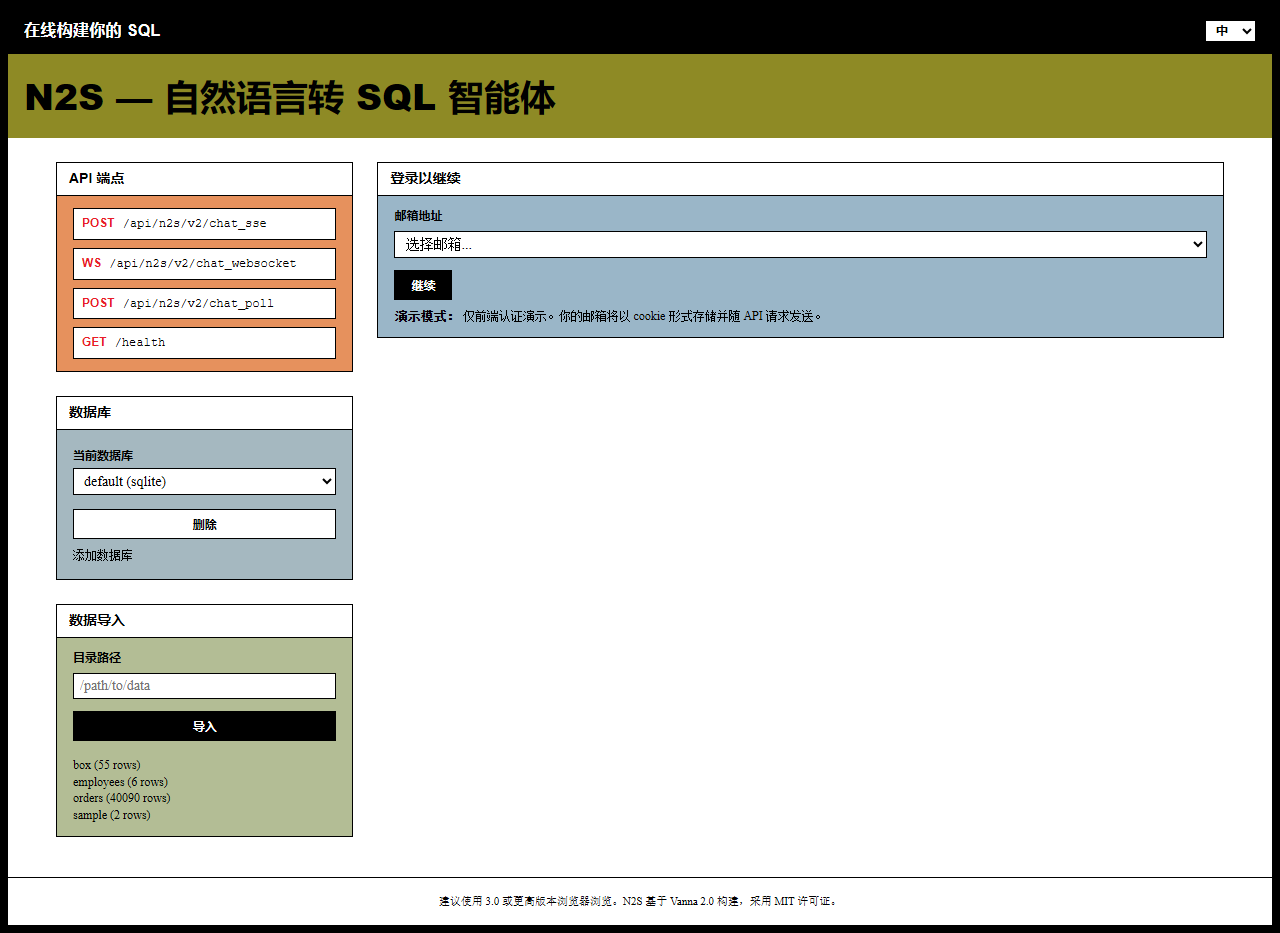
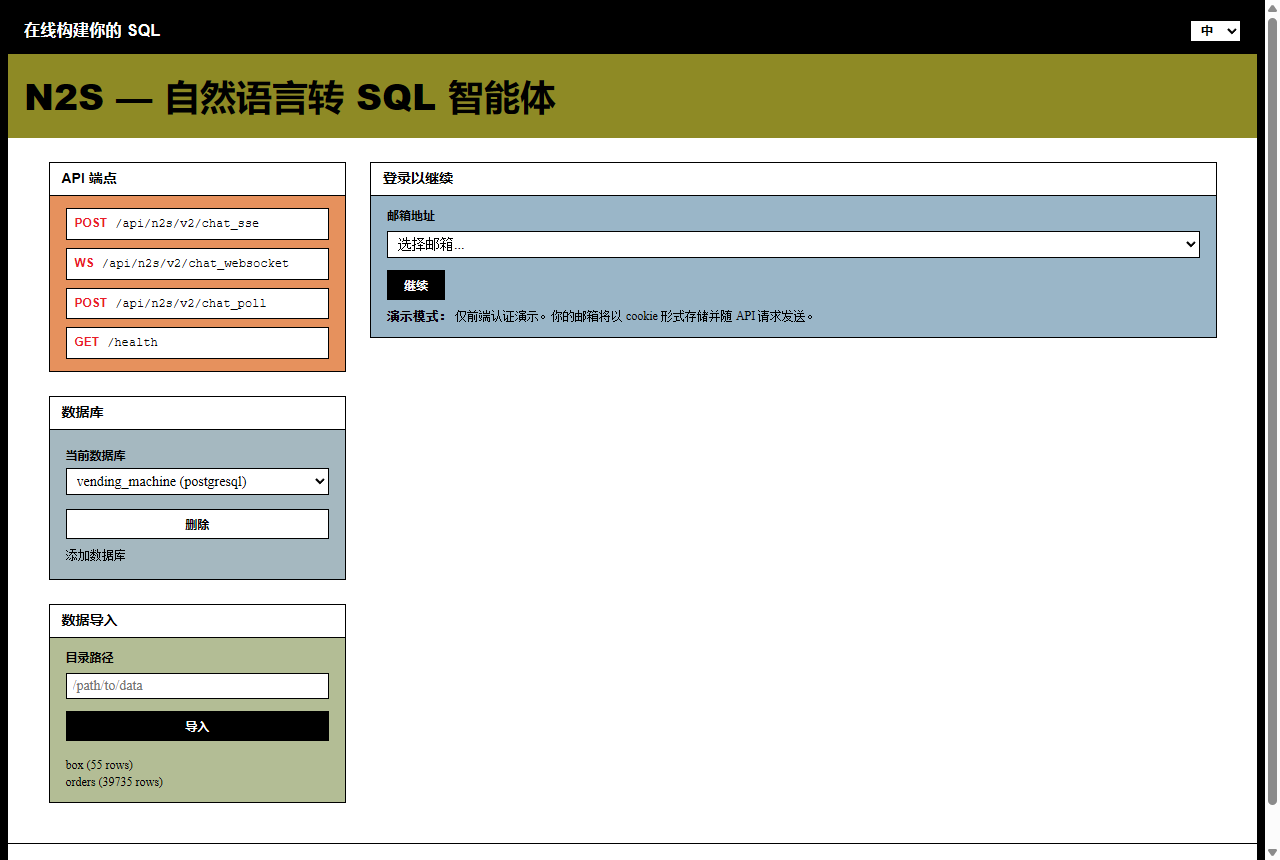
docs: rewrite README (EN/CN) with real screenshots, fix provider/db status tables
- Replace prototype/mockup screenshots with real captures: login page and a
  chat session showing question + result table + bar chart visualisation
- Drop duplicated n2s-chat-response.png (identical file, md5 match)
- README: concise quick start (frontend pre-built, no Node needed), provider
  and database tables with verified/untested status, mock mode clarified
  (canned questions against the bundled employees demo DB, not real NL2SQL)
- Restore architecture / agent-workflow / ingestion diagrams and project tree

Changed region(s): [[0.0, 0.0, 1.0, 1.0]]

diff --git a/README.md b/README.md
@@ -4,88 +4,48 @@
 
 **Turn natural language into SQL, execute it, and visualise results.**
 
-[![Python](https://img.shields.io/badge/Python-3.9+-3776AB?logo=python&logoColor=white)](https://python.org)
+[![Python 3.9+](https://img.shields.io/badge/Python-3.9+-3776AB?logo=python&logoColor=white)](https://python.org)
 [![License](https://img.shields.io/badge/License-MIT-green?logo=opensourceinitiative&logoColor=white)](./LICENSE)
-[![FastAPI](https://img.shields.io/badge/FastAPI-0.68+-009688?logo=fastapi&logoColor=white)](https://fastapi.tiangolo.com)
-[![Code Style](https://img.shields.io/badge/Code%20Style-Ruff-261230?logo=ruff&logoColor=white)](https://docs.astral.sh/ruff/)
-[![PRs Welcome](https://img.shields.io/badge/PRs-Welcome-brightgreen?logo=github)](./CONTRIBUTING.md)
-[![Tests](https://img.shields.io/badge/Tests-184%20passed-success)](#testing)
+[![Tests](https://img.shields.io/badge/Tests-184%20passed-success)](#commands)
 
 [English](README.md) | [中文](README_CN.md)
 
 </div>
 
----
+N2S is a natural-language-to-SQL agent built on [Vanna](https://github.com/vanna-ai/vanna) 2.0. It inspects the database schema, generates SQL, executes it, and visualises the results — retrying automatically when SQL fails.
 
-N2S is an open-source **Natural Language to SQL to Insights** agent. Built on the [Vanna](https://github.com/vanna-ai/vanna) 2.0 agent framework, it extends the original with stronger tool-calling, multi-turn reasoning, a data ingestion pipeline, and a built-in Text2SQL benchmark.
-
-> N2S is a derivative project. It retains Vanna's MIT license and all original copyright notices. See [NOTICE](./NOTICE) for attribution.
+> Derivative project. Retains Vanna's MIT license and copyright notices, see [NOTICE](./NOTICE).
 
 ## Features
 
-- **Agent + Tool Calling** — The agent reasons over schema, generates SQL, executes it, and visualises results through an explicit tool loop.
-- **Self-Correction** — Failed SQL is captured and fed back to the LLM for automatic retry.
-- **Schema Introspection** — The agent inspects database schema before writing queries, reducing hallucination.
-- **Data Ingestion Pipeline** — Scan directories, read CSV/Excel/JSON/Parquet files, infer schema automatically, and load into the target database. Optional LLM-assisted schema enhancement with graceful degradation.
-- **Multi-Database Support** — SQLite, PostgreSQL, MySQL, DuckDB, ClickHouse, Oracle, BigQuery, Snowflake, MSSQL, Hive, Presto, and more via SQLAlchemy.
-- **Multi-LLM Providers** — Mock (no API key), OpenAI, Anthropic, Gemini, Ollama, and OpenAI-compatible endpoints (Agnes, Mimo).
-- **Built-in Benchmark** — `python -m n2s.eval` runs a reproducible Text2SQL evaluation and compares multiple LLM providers.
-- **One-Command Demo** — `python n2s_app.py` starts a FastAPI server with a web UI.
-
-## Screenshots
-
-### Login & Control Panel
-
-![Login Page](img/n2s-login.png)
-
-### Chat Interface
-
-![Chat Interface](img/n2s-chat.png)
+- **Tool-calling agent loop** — schema introspection → SQL generation → execution → visualisation; failed SQL is fed back to the LLM for retry
+- **Data ingestion pipeline** — scan a directory of CSV/Excel/JSON/Parquet files, auto-infer schema, load into the target database (LLM-assisted schema enhancement with graceful fallback)
+- **Multi-database** — SQLite, PostgreSQL, MySQL, DuckDB, ClickHouse, Oracle, BigQuery, Snowflake, MSSQL, Hive, Presto via SQLAlchemy
+- **Multi-LLM** — OpenAI, Anthropic, Gemini, Ollama, or any OpenAI-compatible endpoint (Agnes, Mimo); built-in `mock` for key-less demos
+- **Built-in Text2SQL benchmark** — reproducible evaluation across providers (`python -m n2s.eval`)
 
 ## Quick Start
 
-### 1. Install
+Requires Python 3.9+. The web UI bundle is committed to the repo — no Node.js needed.
 
 ```bash
-git clone https://github.com/YOUR_USERNAME/n2s.git
-cd n2s
+git clone https://github.com/wuxiangru915/N2S.git
+cd N2S
 pip install -e ".[fastapi]"
+python n2s_app.py    # open http://localhost:8000
 ```
 
-### 2. Run the mock demo (no API key required)
+The default `mock` provider answers canned questions against the bundled demo database (`employees`). For arbitrary questions, point `N2S_LLM_PROVIDER` at a real LLM:
 
 ```bash
-python n2s_app.py
-# Open http://localhost:8000
-```
-
-### 3. Run with a real LLM
-
-Supported providers: `mock` (default), `agnes`, `openai`, `anthropic`, `ollama`, `mimo`.
-
-```bash
-# OpenAI
-export N2S_LLM_PROVIDER=openai
-export OPENAI_API_KEY=sk-...
-python n2s_app.py
-
-# Anthropic
-export N2S_LLM_PROVIDER=anthropic
-export ANTHROPIC_API_KEY=sk-ant-...
-python n2s_app.py
-
-# Ollama (local)
-export N2S_LLM_PROVIDER=ollama
-export OLLAMA_MODEL=llama3.1
+export N2S_LLM_PROVIDER=agnes
+export AGNES_API_KEY=...
+export AGNES_BASE_URL=https://api.deepseek.com/v1   # any OpenAI-compatible endpoint
+export AGNES_MODEL=deepseek-chat
 python n2s_app.py
 ```
 
-### 4. Docker
-
-```bash
-docker-compose up --build
-# Open http://localhost:8000
-```
+Other providers (`openai`, `anthropic`, `gemini`, `ollama`, `mimo`) and their env vars are listed in [`.env.example`](.env.example) and the table below.
 
 ## Architecture
 
@@ -198,31 +158,43 @@ Directory / File
                                     └──────────────┘
 ```
 
-## Benchmark
+## Screenshots
 
-Evaluate N2S on a Text2SQL dataset:
+### Login
 
-```bash
-python -m n2s.eval \
-  --dataset src/n2s/eval/datasets/n2s_sql.yaml \
-  --providers mock openai anthropic
-```
+![Login](img/n2s-login.png)
 
-The report includes:
+### Chat & data visualisation
 
-| Metric | Description |
-|--------|-------------|
-| Trajectory | Did the agent call the expected tools? |
-| Output | Does the final answer contain expected keywords? |
-| SQL Similarity | Does the generated SQL match the reference? |
-| SQL Execution | Does the SQL execute and return the expected result? |
+![Chat](img/n2s-chat.png)
 
-## Testing
+## Commands
 
-```bash
-# Run all unit tests (excludes integration tests requiring API keys)
-pytest tests/ -m "not integration and not anthropic and not openai and not azureopenai and not gemini and not ollama and not postgres and not mysql and not slow"
-```
+| Command | Description |
+|---------|-------------|
+| `python n2s_app.py` | Demo server (FastAPI + Web UI), port 8000 |
+| `python -m n2s.eval --providers openai anthropic gemini` | Text2SQL benchmark on the bundled dataset |
+| `python -m n2s.eval --dataset <yaml> --providers <...>` | Benchmark on a custom dataset |
+| `pytest tests/ -m "not integration and not anthropic and not openai and not azureopenai and not gemini and not ollama and not postgres and not mysql and not slow"` | Unit tests (184 passed) |
+
+## Supported LLM Providers
+
+| Provider | Type | API key | Status |
+|----------|------|---------|--------|
+| `mock` | built-in | no | ✅ verified |
+| `agnes` | OpenAI-compatible | yes | ✅ verified |
+| `openai` | cloud | yes | ✅ verified |
+| `gemini` | cloud | yes | ✅ verified |
+| `anthropic` | cloud | yes | code present |
+| `mimo` | OpenAI-compatible | yes | code present |
+| `ollama` | local | no | code present |
+
+## Supported Databases (via SQLAlchemy)
+
+| Database | Status |
+|----------|--------|
+| SQLite, PostgreSQL, MySQL | ✅ verified |
+| DuckDB, ClickHouse, Oracle, BigQuery, Snowflake, MSSQL, Hive, Presto | code present, untested |
 
 ## Project Structure
 
@@ -254,24 +226,6 @@ n2s/
 ├── docker-compose.yml     # Docker deployment
 └── .env.example           # Environment variable template
 ```
-
-## Supported LLM Providers
-
-| Provider | Type | Requires API Key | Description |
-|----------|------|-------------------|-------------|
-| `mock` | Built-in | No | Deterministic mock response, for testing |
-| `openai` | Cloud | Yes | OpenAI GPT models |
-| `anthropic` | Cloud | Yes | Anthropic Claude models |
-| `gemini` | Cloud | Yes | Google Gemini models |
-| `ollama` | Local | No | Local Ollama server |
-
-## Supported Databases
-
-SQLite, PostgreSQL, MySQL, DuckDB, ClickHouse, Oracle, BigQuery, Snowflake, MS SQL Server, Hive, Presto (via SQLAlchemy).
-
-## Acknowledgements
-
-N2S is built on [Vanna](https://github.com/vanna-ai/vanna) by Vanna.AI and contributors, used under the MIT License.
 
 ## License
 

diff --git a/README_CN.md b/README_CN.md
@@ -4,88 +4,48 @@
 
 **将自然语言转换为 SQL，执行查询，并可视化结果。**
 
-[![Python](https://img.shields.io/badge/Python-3.9+-3776AB?logo=python&logoColor=white)](https://python.org)
+[![Python 3.9+](https://img.shields.io/badge/Python-3.9+-3776AB?logo=python&logoColor=white)](https://python.org)
 [![License](https://img.shields.io/badge/License-MIT-green?logo=opensourceinitiative&logoColor=white)](./LICENSE)
-[![FastAPI](https://img.shields.io/badge/FastAPI-0.68+-009688?logo=fastapi&logoColor=white)](https://fastapi.tiangolo.com)
-[![Code Style](https://img.shields.io/badge/Code%20Style-Ruff-261230?logo=ruff&logoColor=white)](https://docs.astral.sh/ruff/)
-[![PRs Welcome](https://img.shields.io/badge/PRs-Welcome-brightgreen?logo=github)](./CONTRIBUTING.md)
-[![Tests](https://img.shields.io/badge/Tests-184%20passed-success)](#测试)
+[![Tests](https://img.shields.io/badge/Tests-184%20passed-success)](#常用命令)
 
 [English](README.md) | [中文](README_CN.md)
 
 </div>
 
----
+N2S 是基于 [Vanna](https://github.com/vanna-ai/vanna) 2.0 构建的自然语言转 SQL 智能体：检查数据库 schema，生成 SQL，执行查询并可视化结果，SQL 失败时自动重试。
 
-N2S 是一个开源的**自然语言转 SQL**智能体。基于 [Vanna](https://github.com/vanna-ai/vanna) 2.0 智能体框架构建，在原版基础上增强了工具调用、多轮推理、数据导入管道和内置 Text2SQL 基准测试。
-
-> N2S 是衍生项目，保留了 Vanna 的 MIT 许可证和所有原始版权声明。归属信息详见 [NOTICE](./NOTICE)。
+> 衍生项目，保留 Vanna 的 MIT 许可证与版权声明，见 [NOTICE](./NOTICE)。
 
 ## 功能特性
 
-- **智能体 + 工具调用** — 智能体推理数据库 schema，生成 SQL，执行查询，并通过工具循环可视化结果。
-- **自动纠错** — SQL 执行失败时，错误信息会反馈给 LLM 进行自动重试。
-- **Schema 内省** — 智能体在编写查询前先检查数据库结构，降低幻觉风险。
-- **数据导入管道** — 扫描目录，读取 CSV/Excel/JSON/Parquet 文件，自动推断 schema，加载到目标数据库。支持 LLM 辅助 schema 增强，LLM 不可用时自动降级。
-- **多数据库支持** — SQLite、PostgreSQL、MySQL、DuckDB、ClickHouse、Oracle、BigQuery、Snowflake、MSSQL、Hive、Presto 等，通过 SQLAlchemy 统一接入。
-- **多 LLM 提供商** — Mock（无需 API Key）、OpenAI、Anthropic、Gemini、Ollama、以及 OpenAI 兼容端点（Agnes、Mimo）。
-- **内置基准测试** — `python -m n2s.eval` 运行可复现的 Text2SQL 评测，对比多个 LLM 提供商。
-- **一键启动 Demo** — `python n2s_app.py` 启动带 Web UI 的 FastAPI 服务器。
-
-## 截图
-
-### 登录与控制面板
-
-![登录页面](img/n2s-login.png)
-
-### 聊天界面
-
-![聊天界面](img/n2s-chat.png)
+- **智能体工具循环** — schema 内省 → SQL 生成 → 执行 → 可视化；SQL 失败自动反馈 LLM 重试
+- **数据导入管道** — 扫描目录中的 CSV/Excel/JSON/Parquet 文件，自动推断 schema 并导入目标库（LLM 增强 schema 描述，不可用时自动降级）
+- **多数据库** — SQLite、PostgreSQL、MySQL、DuckDB、ClickHouse、Oracle、BigQuery、Snowflake、MSSQL、Hive、Presto（SQLAlchemy 统一接入）
+- **多 LLM** — OpenAI、Anthropic、Gemini、Ollama 及任意 OpenAI 兼容端点（Agnes、Mimo）；内置 `mock` 无需 API Key
+- **内置 Text2SQL 基准测试** — `python -m n2s.eval` 可复现评测、跨提供商对比
 
 ## 快速开始
 
-### 1. 安装
+需要 Python 3.9+。Web UI 构建产物已随仓库提交，无需 Node.js。
 
 ```bash
-git clone https://github.com/YOUR_USERNAME/n2s.git
-cd n2s
+git clone https://github.com/wuxiangru915/N2S.git
+cd N2S
 pip install -e ".[fastapi]"
+python n2s_app.py    # 打开 http://localhost:8000
 ```
 
-### 2. 运行 Mock Demo（无需 API Key）
+默认 `mock` 提供商针对内置 demo 库（`employees`）按预置问题回答。接入真实 LLM：
 
 ```bash
-python n2s_app.py
-# 打开 http://localhost:8000
-```
-
-### 3. 使用真实 LLM
-
-支持的提供商：`mock`（默认）、`agnes`、`openai`、`anthropic`、`ollama`、`mimo`。
-
-```bash
-# OpenAI
-export N2S_LLM_PROVIDER=openai
-export OPENAI_API_KEY=sk-...
-python n2s_app.py
-
-# Anthropic
-export N2S_LLM_PROVIDER=anthropic
-export ANTHROPIC_API_KEY=sk-ant-...
-python n2s_app.py
-
-# Ollama（本地）
-export N2S_LLM_PROVIDER=ollama
-export OLLAMA_MODEL=llama3.1
+export N2S_LLM_PROVIDER=agnes
+export AGNES_API_KEY=...
+export AGNES_BASE_URL=https://api.deepseek.com/v1   # 任意 OpenAI 兼容端点
+export AGNES_MODEL=deepseek-chat
 python n2s_app.py
 ```
 
-### 4. Docker 部署
-
-```bash
-docker-compose up --build
-# 打开 http://localhost:8000
-```
+其余提供商（`openai`、`anthropic`、`gemini`、`ollama`、`mimo`）的环境变量见 [`.env.example`](.env.example) 与下方表格。
 
 ## 架构图
 
@@ -197,31 +157,43 @@ docker-compose up --build
                                     └──────────────┘
 ```
 
-## 基准测试
+## 截图
 
-在 Text2SQL 数据集上评估 N2S：
+### 登录
 
-```bash
-python -m n2s.eval \
-  --dataset src/n2s/eval/datasets/n2s_sql.yaml \
-  --providers mock openai anthropic
-```
+![登录](img/n2s-login.png)
 
-报告包含以下指标：
+### 对话与数据可视化
 
-| 指标 | 说明 |
+![聊天](img/n2s-chat.png)
+
+## 常用命令
+
+| 命令 | 说明 |
 |------|------|
-| Trajectory（轨迹） | 智能体是否调用了预期的工具 |
-| Output（输出） | 最终回答是否包含预期关键词 |
-| SQL Similarity（SQL 相似度） | 生成的 SQL 是否匹配参考 SQL |
-| SQL Execution（SQL 执行） | SQL 执行后是否返回预期结果 |
+| `python n2s_app.py` | 启动 Demo 服务（FastAPI + Web UI），端口 8000 |
+| `python -m n2s.eval --providers openai anthropic gemini` | 在自带数据集上运行 Text2SQL 评测 |
+| `python -m n2s.eval --dataset <yaml> --providers <...>` | 在自定义数据集上评测 |
+| `pytest tests/ -m "not integration and not anthropic and not openai and not azureopenai and not gemini and not ollama and not postgres and not mysql and not slow"` | 单元测试（184 passed） |
 
-## 测试
+## 支持的 LLM 提供商
 
-```bash
-# 运行所有单元测试（不含需要 API Key 的集成测试）
-pytest tests/ -m "not integration and not anthropic and not openai and not azureopenai and not gemini and not ollama and not postgres and not mysql and not slow"
-```
+| 提供商 | 类型 | API Key | 状态 |
+|--------|------|---------|------|
+| `mock` | 内置 | 否 | ✅ 已验证 |
+| `agnes` | OpenAI 兼容 | 是 | ✅ 已验证 |
+| `openai` | 云端 | 是 | ✅ 已验证 |
+| `gemini` | 云端 | 是 | ✅ 已验证 |
+| `anthropic` | 云端 | 是 | 有代码，未实测 |
+| `mimo` | OpenAI 兼容 | 是 | 有代码，未实测 |
+| `ollama` | 本地 | 否 | 有代码，未实测 |
+
+## 支持的数据库（SQLAlchemy 接入）
+
+| 数据库 | 状态 |
+|--------|------|
+| SQLite、PostgreSQL、MySQL | ✅ 已验证 |
+| DuckDB、ClickHouse、Oracle、BigQuery、Snowflake、MSSQL、Hive、Presto | 有代码，未实测 |
 
 ## 项目结构
 
@@ -253,24 +225,6 @@ n2s/
 ├── docker-compose.yml     # Docker 部署
 └── .env.example           # 环境变量模板
 ```
-
-## 支持的 LLM 提供商
-
-| 提供商 | 类型 | 需要 API Key | 说明 |
-|--------|------|-------------|------|
-| `mock` | 内置 | 否 | 确定性 Mock 响应，用于测试 |
-| `openai` | 云端 | 是 | OpenAI GPT 模型 |
-| `anthropic` | 云端 | 是 | Anthropic Claude 模型 |
-| `gemini` | 云端 | 是 | Google Gemini 模型 |
-| `ollama` | 本地 | 否 | 本地 Ollama 服务 |
-
-## 支持的数据库
-
-SQLite、PostgreSQL、MySQL、DuckDB、ClickHouse、Oracle、BigQuery、Snowflake、MS SQL Server、Hive、Presto（通过 SQLAlchemy 统一接入）。
-
-## 致谢
-
-N2S 基于 Vanna.AI 的 [Vanna](https://github.com/vanna-ai/vanna) 项目构建，遵循 MIT 许可证。
 
 ## 许可证
 
